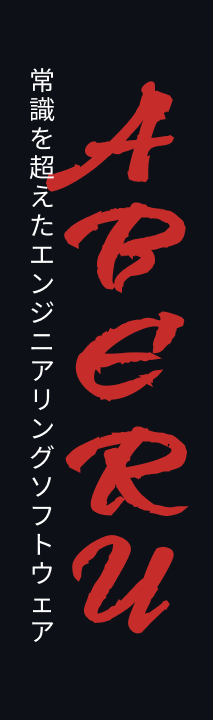
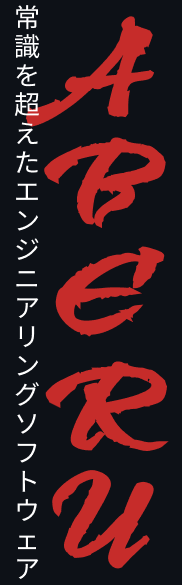
feat(readme): model 1 preview

Changed region(s): [[0.0824, 0.0, 0.9341, 1.0]]

diff --git a/README.md b/README.md
@@ -2,9 +2,9 @@
      GitHub supports image align attributes; avoid CSS-dependent layouts. -->
 
 <a href="https://github.com/4beru?tab=repositories">
-  <img align="left" width="340" src="./assets/principal_banner.gif" alt="Aberu — animated main banner">
+  <img align="left" width="330" hspace="12" src="./assets/principal_banner.gif" alt="Aberu — animated main banner">
 </a>
-<img align="right" height="600" src="./assets/aberu-vertical-banner.png" alt="Aberu — vertical banner">
+<img align="right" height="600" hspace="24" src="./assets/aberu-vertical-banner.png" alt="Aberu — vertical banner">
 
 **↖ Aberu — software with intention**<br>
 I build software where engineering meets design.<br>
@@ -15,10 +15,6 @@ Native apps, developer tools, systems, and creative web experiences.<br>
 ![Android](https://img.shields.io/badge/Android-%233DDC84.svg?style=for-the-badge&logo=android&logoColor=white)
 ![Expo](https://img.shields.io/badge/expo-%231C1E24.svg?style=for-the-badge&logo=expo&logoColor=#D04A37)
 ![Flutter](https://img.shields.io/badge/Flutter-%2302569B.svg?style=for-the-badge&logo=Flutter&logoColor=white)
-### Achievements
-
-<img width="480" src="./github-achievements.svg" alt="GitHub Achievements">
-
 
 ### Projects
 
